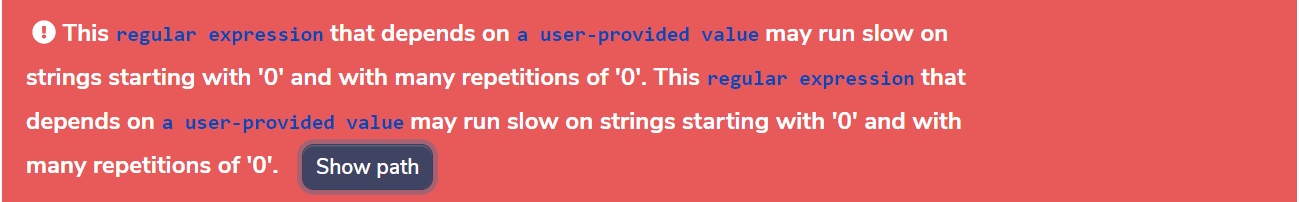
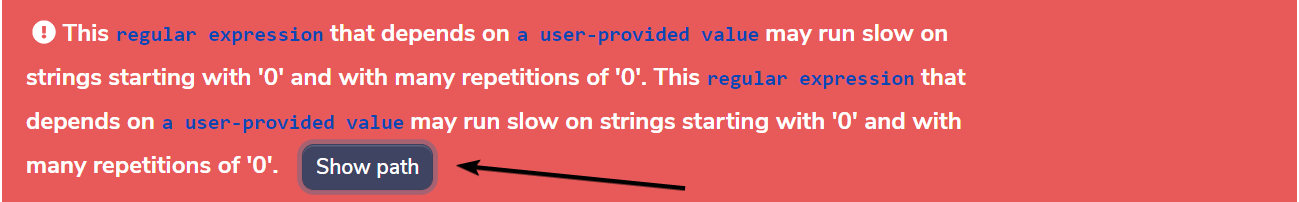
Updated Exploring page
Added more content and arrows to certain pictures

Changed region(s): [[0.3387, 0.802, 0.5543, 0.9505]]

diff --git a/G8/frontend/src/pages/documentation/DocsExploring.js b/G8/frontend/src/pages/documentation/DocsExploring.js
@@ -200,7 +200,10 @@ const DocsExploring = () => (
               </h2>
               <ol className="ps-4 docs-list counter-list">
                 <li>
-                  <p>You can view the errors, warnings and recommendations.</p>
+                  <p>
+                    You can view the number of errors, warnings and
+                    recommendations.
+                  </p>
                   <Image
                     rounded
                     className="mb-3"
@@ -327,6 +330,10 @@ const DocsExploring = () => (
                     src={pdf1}
                     alt="CodeQL Alerts"
                   />
+                </li>
+                <li>
+                  You can zoom in or zoom out from the report, download the report
+                  or print it
                 </li>
               </ol>
               {/* Query Help */}
